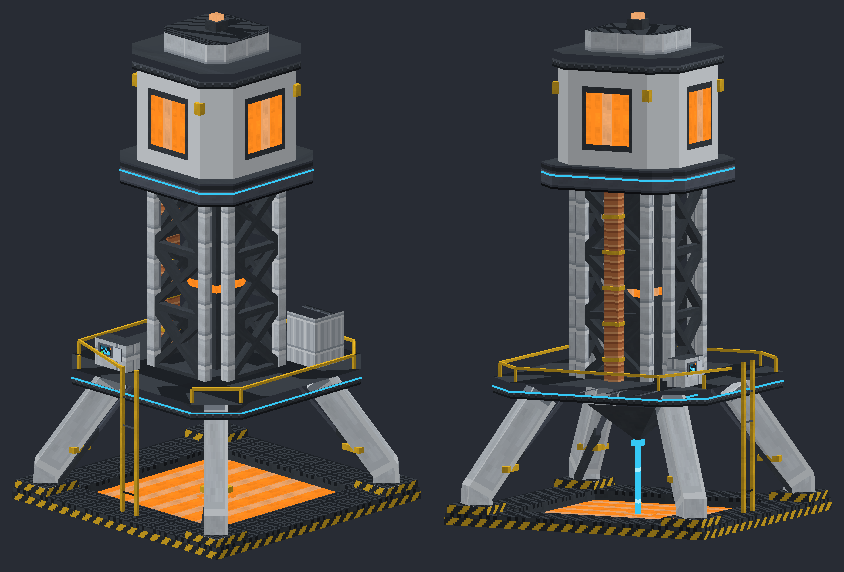
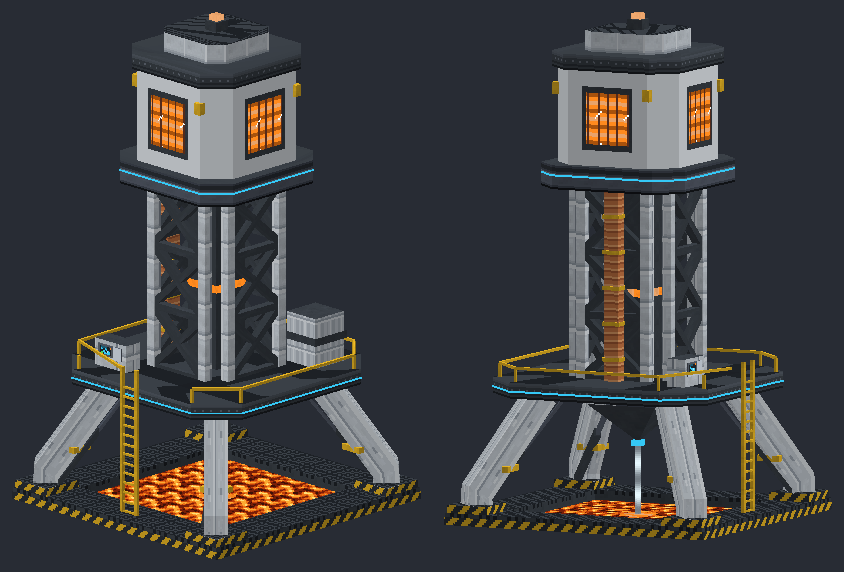
Mega drill textures and effects: animated molten pit and beam, idle crust, plated legs, solid bands, generator windows; effects plan written up

diff --git a/art/tools/mega_drill_concept.py b/art/tools/mega_drill_concept.py
@@ -32,9 +32,9 @@ B = 16
 SIZE = 9 * B
 C = SIZE / 2
 TEXTURES = {'breeder_' + name: 'ryzergen:block/breeder/' + name for name in breeder_textures.TEXTURES}
-TEXTURES.update({'drill_' + name: 'ryzergen:block/drill/' + name for name in drill_textures.TEXTURES})
+TEXTURES.update({'drill_' + name: 'ryzergen:block/drill/' + name for name in list(drill_textures.TEXTURES) + ['melt', 'beam']})
 TEXTURES.update({name: 'ryzergen:block/microreactor/' + name for name in ('hazard', 'glow', 'screen')})
-d = Design(C, TEXTURES, {'glow', 'screen', 'breeder_amber'})
+d = Design(C, TEXTURES, {'glow', 'screen', 'breeder_amber', 'drill_melt', 'drill_beam', 'drill_window'})
 ALL = ('north', 'south', 'east', 'west', 'up', 'down')
 UV = [(0, 0), (16, 0), (16, 16), (0, 16)]
 
@@ -99,7 +99,7 @@ for xa, xb in zip(steps, steps[1:]):
     d.quad('breeder_graphite', [(lo, RING, xb), (lo, RING, xa), (lo, 1, xa), (lo, 1, xb)], UV, (1, 0, 0))
     d.quad('breeder_graphite', [(hi, RING, xa), (hi, RING, xb), (hi, 1, xb), (hi, 1, xa)], UV, (-1, 0, 0))
     for za, zb in zip(steps, steps[1:]):
-        d.quad('breeder_amber', [(xa, 1, za), (xb, 1, za), (xb, 1, zb), (xa, 1, zb)], UV, (0, 1, 0))
+        d.quad('drill_melt', [(xa, 1, za), (xb, 1, za), (xb, 1, zb), (xa, 1, zb)], UV, (0, 1, 0))
 
 # ---------------------------------------------------------------- the buttress legs
 DECK_Y = 4 * B
@@ -109,7 +109,7 @@ for sx, sz in ((-1, -1), (1, -1), (1, 1), (-1, 1)):
     head = (C + sx * 36, C + sz * 36)
     out = (sx / math.sqrt(2), 0, sz / math.sqrt(2))
     across = (-out[2], 0, out[0])
-    d.sweep('drill_casing', [(foot[0], RING, foot[1]), (foot[0], RING + 10, foot[1]), (head[0], DECK_Y, head[1])], 7, 6,
+    d.sweep('drill_leg', [(foot[0], RING, foot[1]), (foot[0], RING + 10, foot[1]), (head[0], DECK_Y, head[1])], 7, 6,
             lambda i, v=across: v, closed=False, caps=True)
     # An orange clamp and a foot pad.
     mx, mz = foot[0] + (head[0] - foot[0]) * 0.4, foot[1] + (head[1] - foot[1]) * 0.4
@@ -126,7 +126,7 @@ for sx, sz in ((-1, -1), (1, -1), (1, 1), (-1, 1)):
 # ---------------------------------------------------------------- the emitter and its beam
 EMIT = 22
 tip_y = DECK_Y - 26
-d.box('drill_band', C - EMIT, DECK_Y - 6, C - EMIT, C + EMIT, DECK_Y, C + EMIT)
+d.box('drill_band8', C - EMIT, DECK_Y - 6, C - EMIT, C + EMIT, DECK_Y, C + EMIT)
 outline(C - EMIT, DECK_Y - 4, C - EMIT, C + EMIT, DECK_Y - 3, C + EMIT, 'glow')
 base = [(C - EMIT + 3, DECK_Y - 6, C - EMIT + 3), (C + EMIT - 3, DECK_Y - 6, C - EMIT + 3),
         (C + EMIT - 3, DECK_Y - 6, C + EMIT - 3), (C - EMIT + 3, DECK_Y - 6, C + EMIT - 3)]
@@ -136,11 +136,11 @@ for k in range(4):
     d.quad('breeder_graphite', [a, b, tip, tip], [(0, 0), (16, 0), (8, 16), (8, 16)],
            ((a[0] + b[0]) / 2 - C, -0.7 * EMIT, (a[2] + b[2]) / 2 - C))
 d.box('glow', C - 2.5, tip_y - 2, C - 2.5, C + 2.5, tip_y + 1, C + 2.5)
-d.box('glow', C - 1, 1, C - 1, C + 1, tip_y - 2, C + 1, skip=('up', 'down'))
+d.box('drill_beam', C - 1.2, 1, C - 1.2, C + 1.2, tip_y - 2, C + 1.2, skip=('up', 'down'))
 d.box('breeder_amber', C - 7, 1, C - 7, C + 7, 1.6, C + 7, skip=('down',))
 
 # ---------------------------------------------------------------- the deck
-prism('drill_band', DECK_Y, DECK_Y + 8, DECK_W, DECK_C, top='breeder_grate', bottom='drill_frame', v0=8)
+prism('drill_band8', DECK_Y, DECK_Y + 8, DECK_W, DECK_C, top='breeder_grate', bottom='breeder_graphite', v0=8)
 prism('glow', DECK_Y + 3, DECK_Y + 4, DECK_W + 0.3, DECK_C)
 # The handrail round the deck's edge, with a gap at the ladder on the front.
 rail = corners(DECK_W - 3, DECK_C - 1)
@@ -155,12 +155,12 @@ LZ = C - DECK_W - 1.5
 for lx in (C - 5, C + 5):
     d.box('breeder_rail', lx - 0.8, 0, LZ - 0.8, lx + 0.8, RY + 10, LZ + 0.8)
 for y in range(6, int(RY), 5):
-    d.box('drill_band', C - 5, y, LZ - 0.5, C + 5, y + 1, LZ + 0.5)
+    d.box('breeder_rail', C - 5, y, LZ - 0.5, C + 5, y + 1, LZ + 0.5)
 # A console on the deck beside the ladder, and a tank at the back.
 d.box('drill_casing', C + 18, RY, C - 46, C + 40, RY + 14, C - 36, top='breeder_graphite', skip=('down',))
 d.box('breeder_fitting', C + 21, RY + 5, C - 46.5, C + 37, RY + 12, C - 46, decals={'north': 'screen'}, skip=('south',))
-d.box('drill_pot', C - 44, RY, C + 26, C - 24, RY + 26, C + 46, top='drill_band')
-d.box('drill_band', C - 45, RY + 12, C + 25, C - 23, RY + 16, C + 47, skip=('up', 'down'))
+d.box('drill_pot', C - 44, RY, C + 26, C - 24, RY + 26, C + 46, top='breeder_graphite')
+d.box('breeder_graphite', C - 45, RY + 12, C + 25, C - 23, RY + 16, C + 47, skip=('up', 'down'))
 
 # ---------------------------------------------------------------- the column
 COL = (RY, RY + 6 * B)
@@ -183,7 +183,7 @@ for y in range(int(COL[0]) + 10, int(COL[1]), 18):
 
 # ---------------------------------------------------------------- the collar and the head
 COLLAR = (COL[1], COL[1] + 12)
-prism('drill_ring', COLLAR[0], COLLAR[1], 40, 12, top='breeder_graphite', bottom='drill_frame', v0=4)
+prism('drill_ring', COLLAR[0], COLLAR[1], 40, 12, top='breeder_graphite', bottom='breeder_graphite', v0=4)
 prism('glow', COLLAR[0] + 6.5, COLLAR[0] + 7.5, 40.3, 12)
 HEAD = (COLLAR[1], COLLAR[1] + 3 * B)
 prism('drill_casing', HEAD[0], HEAD[1], 34, 12)
@@ -193,11 +193,11 @@ for face, (x1, z1, x2, z2) in (('north', (C - 12, C - 34.3, C + 12, C - 34)), ('
     d.box('breeder_graphite', x1 - 2 * (face in ('north', 'south')), HEAD[0] + 8, z1 - 2 * (face in ('west', 'east')),
           x2 + 2 * (face in ('north', 'south')), HEAD[1] - 8, z2 + 2 * (face in ('west', 'east')), skip=face_only(face))
     push = {'north': (0, -0.3), 'south': (0, 0.3), 'west': (-0.3, 0), 'east': (0.3, 0)}[face]
-    d.box('breeder_amber', x1 + push[0], HEAD[0] + 11, z1 + push[1], x2 + push[0], HEAD[1] - 11, z2 + push[1], skip=face_only(face))
+    d.box('drill_window', x1 + push[0], HEAD[0] + 11, z1 + push[1], x2 + push[0], HEAD[1] - 11, z2 + push[1], skip=face_only(face))
 for x, z in corners(34, 12)[::2]:
     d.box('breeder_rail', x - 2, HEAD[1] - 14, z - 2, x + 2, HEAD[1] - 8, z + 2)
 CAP = (HEAD[1], HEAD[1] + 8)
-prism('drill_band', CAP[0], CAP[1], 36, 12, top='breeder_graphite', v0=8)
+prism('drill_band8', CAP[0], CAP[1], 36, 12, top='breeder_graphite', v0=8)
 prism('drill_casing', CAP[1], CAP[1] + 10, 22, 7, top='breeder_grate')
 d.box('breeder_graphite', C - 4, CAP[1] + 10, C - 4, C + 4, CAP[1] + 15, C + 4, skip=('down',))
 d.box('breeder_amber', C - 2.5, CAP[1] + 15, C - 2.5, C + 2.5, CAP[1] + 18, C + 2.5, skip=('down',))
@@ -208,6 +208,12 @@ def main():
     breeder_textures.main()
     drill_textures.main()
     d.save_png(out, [((1, 1), 2.0, 0.3), ((-1, 0.5), 2.0, 0.12)])
+    # Idle: the pit crusted over and dark, the beam off, the windows and light lines dim.
+    running = d.quads
+    swap = {'drill_melt': 'drill_crust', 'breeder_amber': 'breeder_graphite', 'glow': 'breeder_graphite', 'drill_window': 'breeder_graphite'}
+    d.quads = [(swap.get(t, t), v, n, g) for t, v, n, g in running if t != 'drill_beam']
+    d.save_png(out.replace('.png', '_idle.png'), [((1, 1), 2.0, 0.3)])
+    d.quads = running
 
 
 if __name__ == '__main__':

diff --git a/art/tools/drill_textures.py b/art/tools/drill_textures.py
@@ -11,10 +11,26 @@ textures drawn at their height, round parts change only down their height.
 - skirt, ring and warning: the quarry block's round body, a small reactor station of its own: a
   graphite skirt with vent slots, a gunmetal head ring with the groove for its light line, and
   the station's aviation marking (red, white, red) round its top.
+- band8: a graphite band 8 high (rows 8 to 15), for the mega drill's deck edge and cap: a lit lip,
+  a bolt line, a groove and a shadowed foot.
+- leg: the mega drill's buttress legs, drawn for swept bars (u runs along the leg, v across it):
+  light plating with a lit edge, a recessed groove down the middle and bolts every 8 pixels.
+- window (lit): a head window onto the beam generator: its coils glowing orange behind the glass,
+  dark bars between them, a pale glint across the top corner.
+- crust: the pit while the drill stands idle, the melt cooled to dark glassy rock with faint red
+  cracks still glowing in it.
+- melt and beam (animated, lit): the molten pit, dark crust drifting slowly over glowing melt,
+  and the laser beam, a bright core flickering along its length.
 Run from the repo root:
     python art/tools/drill_textures.py
 """
+import json
+import math
+import os
+
 from pixelart import *  # noqa: F401,F403
+from pixelart import ART_TEXTURES, MOD_TEXTURES, write_png
+from fluid_textures import smooth_noise
 
 FOLDER = 'block/drill/'
 
@@ -65,6 +81,107 @@ def band():
     return t
 
 
+def band8():
+    t = Tex()
+    t.rect(0, 8, 15, 15, 'S')
+    t.rect(0, 8, 15, 8, 'M')
+    t.rect(0, 9, 15, 9, 'b')
+    for x in range(2, 16, 4):
+        t.set(x, 11, 'l')
+    t.rect(0, 13, 15, 13, 'T')
+    t.rect(0, 15, 15, 15, 'U')
+    return t
+
+
+def leg():
+    t = Tex()
+    t.rect(0, 0, 15, 15, 'E')
+    t.rect(0, 0, 15, 0, 'A')
+    t.rect(0, 1, 15, 1, 'A')
+    t.rect(0, 15, 15, 15, 'I')
+    t.rect(0, 14, 15, 14, 'F')
+    t.rect(0, 7, 15, 7, 'I')
+    t.rect(0, 8, 15, 8, 'A')
+    for x in range(3, 16, 8):
+        for y in (4, 11):
+            t.set(x, y, 'I')
+            t.set(x - 1, y - 1, 'A')
+    return t
+
+
+def window():
+    t = Tex()
+    for y in range(16):
+        t.rect(0, y, 15, y, ('Z', 'X', 'X', 'e', 'e', 'X', 'X', 'Z')[y % 8])
+    for x in (3, 8, 13):
+        t.rect(x, 0, x, 15, 'o')
+    for k in range(4):
+        t.set(1 + k, 3 - k, 'W')
+    return t
+
+
+def crust():
+    t = Tex()
+    t.rect(0, 0, 15, 15, 'T')
+    for x, y in ((2, 3), (3, 4), (4, 4), (5, 5), (9, 2), (10, 3), (10, 4), (11, 5), (12, 5), (6, 10), (7, 11),
+                 (8, 11), (9, 12), (13, 9), (13, 10), (14, 11), (1, 12), (2, 13), (3, 13)):
+        t.set(x, y, '8')
+    for x, y in ((4, 4), (10, 4), (8, 11), (13, 10), (2, 13)):
+        t.set(x, y, 'Z')
+    for x, y in ((6, 1), (14, 3), (11, 14), (0, 7)):
+        t.set(x, y, 'S')
+    return t
+
+
+FRAMES = 16
+MELT = [(60, 16, 6), (120, 30, 8), (190, 62, 10), (236, 112, 22), (252, 170, 50), (255, 222, 120)]
+
+
+def melt():
+    """Frames of the molten pit: two layers of slow noise; the low places are crust (dark), the
+    high ones open melt glowing orange to yellow, drifting a pixel every other frame."""
+    slow = smooth_noise(71)
+    fine = smooth_noise(83, cells=8)
+    rows = []
+    for frame in range(FRAMES):
+        for y in range(16):
+            row = []
+            for x in range(16):
+                v = 0.7 * slow((x + frame // 2) % 16, (y + frame // 4) % 16) + 0.3 * fine((x + frame) % 16, y)
+                k = max(0, min(len(MELT) - 1, int((v - 0.2) / 0.6 * len(MELT))))
+                row.append(MELT[k] + (255,))
+            rows.append(row)
+    return rows
+
+
+def beam():
+    """Frames of the laser beam (drawn along v): a white-hot core between cyan edges, its
+    brightness flickering in bands that run along it."""
+    rows = []
+    for frame in range(FRAMES):
+        for y in range(16):
+            pulse = 0.75 + 0.25 * math.sin((y + frame * 3) / 16 * 2 * math.pi)
+            row = []
+            for x in range(16):
+                edge = abs(x - 7.5) / 7.5
+                core = max(0.0, 1 - edge * 1.6)
+                r = int(min(255, (53 + 200 * core) * pulse))
+                g = int(min(255, (200 + 55 * core) * pulse))
+                b = int(min(255, 245 * pulse + 10))
+                row.append((r, g, b, 255))
+            rows.append(row)
+    return rows
+
+
+def publish_animated(name, rows, frametime):
+    for base in (ART_TEXTURES, MOD_TEXTURES):
+        out = os.path.join(base, name + '.png')
+        os.makedirs(os.path.dirname(out), exist_ok=True)
+        write_png(out, rows)
+        with open(out + '.mcmeta', 'w', encoding='utf-8') as f:
+            json.dump({'animation': {'frametime': frametime, 'interpolate': True}}, f, indent=2)
+
+
 def frame():
     t = Tex()
     t.rect(0, 12, 15, 15, 'u')
@@ -106,6 +223,10 @@ TEXTURES = {
     'vent': vent,
     'band': band,
     'frame': frame,
+    'band8': band8,
+    'leg': leg,
+    'crust': crust,
+    'window': window,
     'skirt': skirt,
     'ring': ring,
     'warning': warning,
@@ -115,6 +236,8 @@ TEXTURES = {
 def main():
     for name, fn in TEXTURES.items():
         publish_finished(FOLDER + name, fn())
+    publish_animated(FOLDER + 'melt', melt(), 6)
+    publish_animated(FOLDER + 'beam', beam(), 2)
 
 
 if __name__ == '__main__':

diff --git a/docs/DESIGN.md b/docs/DESIGN.md
@@ -596,6 +596,7 @@ The mod's own miner: not a box quarry but a drill that melts its way straight do
   - **Upgrades:** drill heads in Mk I, II and III, each crafted from the last and swapped in at the controller (rule 11); speed modules; the filter. Tungsten tips wear as before.
   - **Coolant:** it drinks water to cool the bore, venting steam from its stacks (rule 12), so it needs intake pumps beside it.
   - **Built** like the station: place the controller, feed it the parts, and it builds itself round the pit.
+  - **Effects (first plan, 4 Oct 2026):** running, the pit is molten (an animated texture, dark crust drifting over glowing melt, `drill/melt`) and the beam a flickering white-hot core between cyan edges (`drill/beam`), both lit; embers and sparks jump from the pit and smoke and steam rise through the open base (lava, campfire smoke and cloud particles, a few a second, so it stays cheap); the emitter's tip pulses as it fires; the head's windows glow amber onto the generator; the light lines are lit; and the pit's blocks give off light, so the base glows at night. Idle, the pit crusts over to dark glassy rock with red cracks still glowing (`drill/crust`), the beam goes out, and the windows and lines go dim. Steam puffs from the coolant duct's vent when the bore takes water. Sound: a deep drone looped on the client and pitched by speed, with a crackle as each layer gives way (the user sources recordings). Renders: `art/concepts/mega_drill.png` (running) and `mega_drill_idle.png`.
   - **The deep bore (the user's idea, 4 Oct 2026; balance to settle):** once the chunk is mined to bedrock the drill does not stop: its beam bores on through bedrock into the deep crust below the world, where it breaks no more blocks and brings up ore at better rates than the chunk gave. It is the drill's endgame, so a finished drill is never junk (rule 4). Real basis, honestly fudged: the deep crust is denser and richer in heavy metals than the surface, and real superdeep boreholes (the deepest reach about 12 km) found hot, mineral-rich brines; the fudge is reaching it, and what it yields. Balancing ideas, to choose from in play:
     - **The drill head sets what it reaches:** a Mk I head brings up only the common ores, a Mk II adds uranium, lead, silver and the gems, a Mk III the rare ones (tungsten, monazite). So deep boring is a reason to keep upgrading.
     - **It costs more:** a much higher draw while deep boring (fission power at the least), and tips wear faster in the hotter rock, so it leans on the tiers below (pillar 6).
